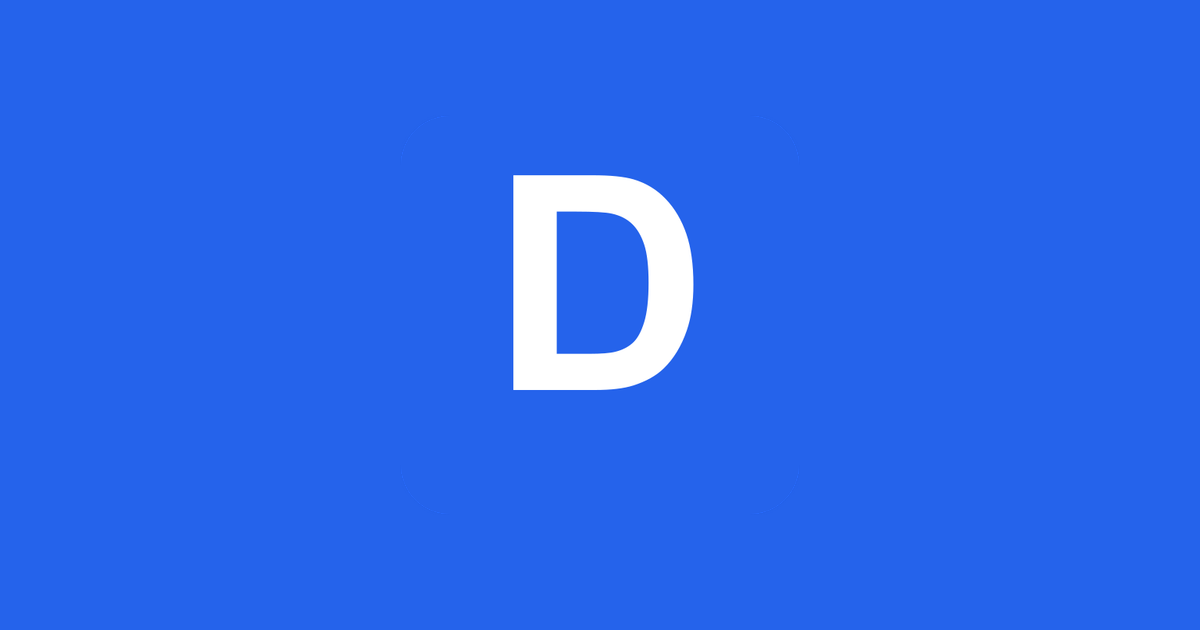
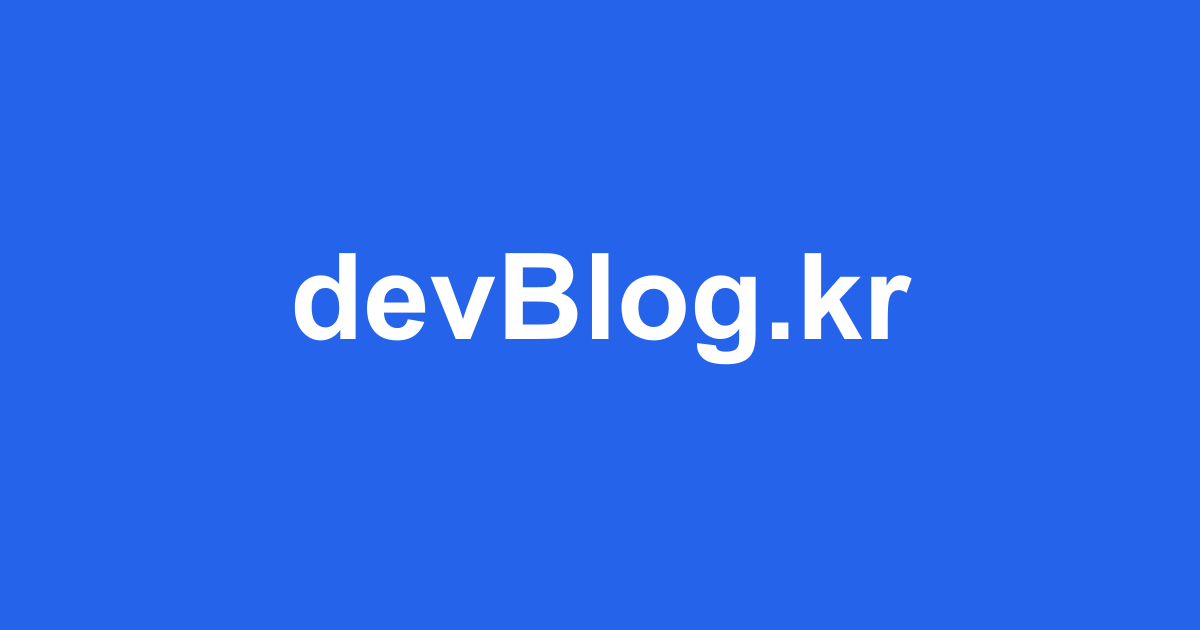
feat: PWA splash screen 및 og-image 업데이트
- manifest.json 추가로 Android splash 배경색 설정
- iOS splash screen 이미지 8개 추가 (해상도별)
- layout.tsx에 PWA manifest, iOS splash meta 태그 추가
- og-image.png를 파란색 배경 + devBlog.kr 텍스트로 변경

Changed region(s): [[0.2467, 0.2714, 0.7708, 0.6333]]

diff --git a/app/layout.tsx b/app/layout.tsx
@@ -85,9 +85,6 @@ export const metadata: Metadata = {
     shortcut: '/logo_32.png',
     apple: '/logo_192.png',
   },
-  // verification: {
-  //   google: 'Google이 제공하는 고유 verification code',
-  // },
   other: {
     'naver-site-verification': '7f789ada98f40ecd34a513b77f53acd408b08300',
   },
@@ -101,6 +98,54 @@ export default function RootLayout({ children }: { children: React.ReactNode }) 
         <link rel="icon" href="/logo_32.png" sizes="32x32" type="image/png" />
         <link rel="icon" href="/logo_192.png" sizes="192x192" type="image/png" />
         <link rel="apple-touch-icon" href="/logo_192.png" />
+
+        {/* PWA manifest */}
+        <link rel="manifest" href="/manifest.json" />
+
+        {/* iOS PWA splash screen */}
+        <meta name="apple-mobile-web-app-capable" content="yes" />
+        <meta name="apple-mobile-web-app-status-bar-style" content="default" />
+        <meta name="apple-mobile-web-app-title" content="devBlog.kr" />
+        <link
+          rel="apple-touch-startup-image"
+          href="/splash-640x1138.png"
+          media="(device-width: 320px) and (device-height: 568px) and (-apple-system-2x)"
+        />
+        <link
+          rel="apple-touch-startup-image"
+          href="/splash-750x1334.png"
+          media="(device-width: 375px) and (device-height: 667px) and (-apple-system-2x)"
+        />
+        <link
+          rel="apple-touch-startup-image"
+          href="/splash-828x1792.png"
+          media="(device-width: 414px) and (device-height: 896px) and (-apple-system-2x)"
+        />
+        <link
+          rel="apple-touch-startup-image"
+          href="/splash-1125x2436.png"
+          media="(device-width: 375px) and (device-height: 812px) and (-apple-system-3x)"
+        />
+        <link
+          rel="apple-touch-startup-image"
+          href="/splash-1242x2208.png"
+          media="(device-width: 414px) and (device-height: 736px) and (-apple-system-3x)"
+        />
+        <link
+          rel="apple-touch-startup-image"
+          href="/splash-1284x2778.png"
+          media="(device-width: 428px) and (device-height: 926px) and (-apple-system-3x)"
+        />
+        <link
+          rel="apple-touch-startup-image"
+          href="/splash-1179x2556.png"
+          media="(device-width: 393px) and (device-height: 852px) and (-apple-system-3x)"
+        />
+        <link
+          rel="apple-touch-startup-image"
+          href="/splash-1320x2868.png"
+          media="(device-width: 440px) and (device-height: 956px) and (-apple-system-3x)"
+        />
 
         {/* 구조화된 데이터 (Schema.org) - Organization */}
         <script
